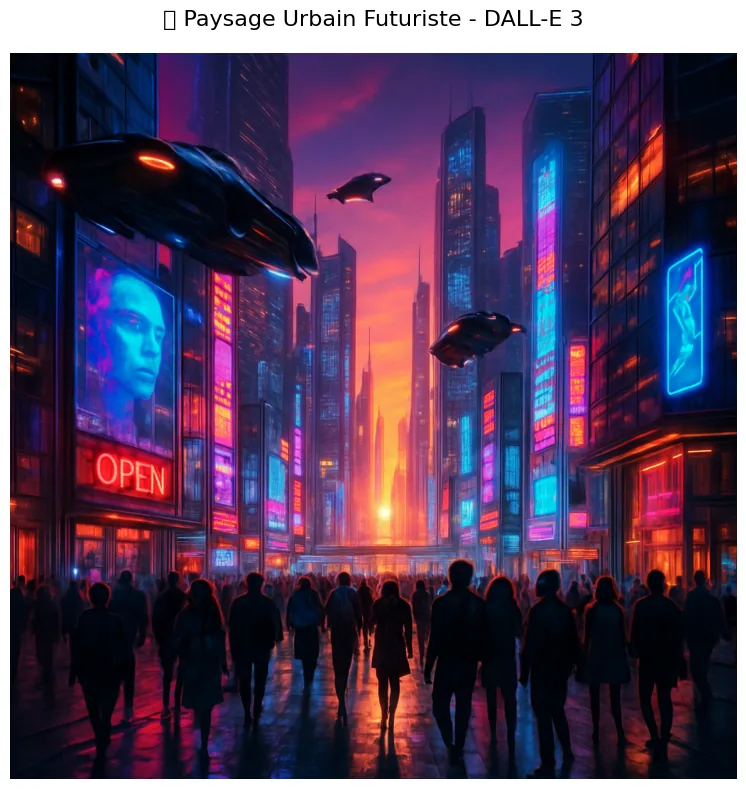
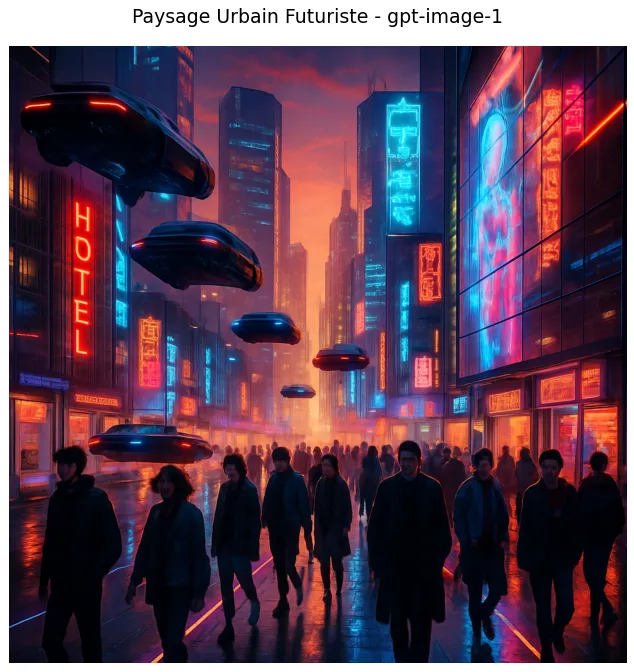
fix(genai,#9348): regen dalle3-cover.webp racine byte-identique à img1-dalle3.webp — corrige alt-text incohérent
Issue #9348 (c.973 vision-audit Classe 4 = "alt-text incoherent") : racine
MyIA.AI.Notebooks/GenAI/Image/assets/readme/dalle3-cover.webp avait un
bandeau-titre legacy "□ Paysage Urbain Futuriste - DALL-E 3" cuit dans le
pixel committé, alors que le NB source 01-1-OpenAI-DALL-E-3.ipynb appelle
désormais gpt-image-1 (post-PR #4230).

Root cause = doctrine #5780 byte-identique non tenue c.928 (qui n'avait
régénéré que img1-dalle3.webp, laissant dalle3-cover.webp racine stale).

Fix :
- Extension scripts/audit/regen_img1_dalle3.py : ASSET_PATHS = [01-Foundation,
  racine], unique burn matplotlib -> BytesIO -> write_bytes vers les 2
  chemins -> byte-identity garantie (SHA1 980a806e..., vérifié post-write).
- L948 ★★ Stop & Repair respecté : vraie regen via OpenAI API gpt-image-1
  (pas scrub d'asset).
- _load_env() étendu multi-origine (worktree-local -> REPO_ROOT -> parents
  -> siblings) car le .env est gitignored et vit sur l'arbre principal.
- MANIFEST.md racine + 01-Foundation : entrée dalle3-cover alignée sur
  pixel post-regen, SHA1 c.657 table mis à jour, bloc audit c.977 ajouté.
- README.md racine Image : alt-text ligne 46 + caption ligne 47 mis à jour.

6 files, +143/-43. Single-issue PR, atomic (G.4 OK).
C.3 strict respecté : 0 NB ré-exécuté (NB source non modifié).
Closes #9348. See #8624 (c.928 historique partiel).

Grain: MED/notebook-python — lane myia-po-2023:CoursIA-2 — prev: MED/notebook-python #9358

diff --git a/scripts/audit/regen_img1_dalle3.py b/scripts/audit/regen_img1_dalle3.py
@@ -1,21 +1,34 @@
 #!/usr/bin/env python3
 # -*- coding: utf-8 -*-
 """
-regen_img1_dalle3.py — REPAIR THE LEGACY ASSET (issue #8624).
+regen_img1_dalle3.py — REPAIR THE LEGACY ASSETS (issue #8624 + #9348).
 
 Le NB `01-1-OpenAI-DALL-E-3.ipynb` régénère une image via gpt-image-1 puis
 l'affiche avec matplotlib. Le filtre non-ASCII du titre (c.916 / PR #8636)
-protège la SORTIE du notebook, mais l'asset historique
-`MyIA.AI.Notebooks/GenAI/Image/01-Foundation/assets/readme/img1-dalle3.webp`
-(committé avant ce fix) garde un glyphe □ cuit dans le bandeau de titre.
+protège la SORTIE du notebook, mais deux assets historiques gardent un glyphe
+□ + le libellé legacy « DALL-E 3 » cuit dans le bandeau de titre (committés
+avant ce fix) :
+
+- `MyIA.AI.Notebooks/GenAI/Image/01-Foundation/assets/readme/img1-dalle3.webp`
+- `MyIA.AI.Notebooks/GenAI/Image/assets/readme/dalle3-cover.webp`
+
+c.928 (PR #8636) a régénéré le premier ; le second est resté legacy (Classe 4
+c.973 vision-audit = alt-text incoherent — titre intégré annonce « DALL-E 3 »
+alors que le modèle réellement appelé est `gpt-image-1`, vérifiable dans le NB
+source cellule 82075ed6 + disclosure `dalle3-gpt-image1-disclosure`). Doctrine
+#5780 demande que les deux fichiers soient byte-identique (racine Image README
+illustre la figure dans le contexte introductif « 01-Foundation - Modèles de
+base » ; 01-Foundation README l'illustre dans le contexte « DALL-E 3 cellule 14
+output 3 »).
 
 L948 ★★ Stop & Repair : on ne scrubbe pas la SORTIE d'une cellule, on répare
-la CAUSE + ré-exécute. Ici la cause = image legacy figée dans le `.webp`,
+la CAUSE + ré-exécute. Ici la cause = image legacy figée dans les `.webp`,
 le fix = re-générer l'image via le même pipeline puis re-burn le bandeau
-ASCII-only + sauver. SOTA-OK : vraie regen via stack GenAI.
+ASCII-only + sauver aux DEUX emplacements (byte-identique). SOTA-OK : vraie
+regen via stack GenAI (appel OpenAI `gpt-image-1` direct, pas ComfyUI).
 
 Usage:
-    python scripts/audit/regen_img1_dalle3.py            # regen + save
+    python scripts/audit/regen_img1_dalle3.py            # regen + save (BOTH)
     python scripts/audit/regen_img1_dalle3.py --check   # verify (no regen)
     python scripts/audit/regen_img1_dalle3.py --audit   # quick audit only
 """
@@ -31,8 +44,14 @@ from pathlib import Path
 
 REPO_ROOT = Path(__file__).resolve().parents[2]
 NB_PATH = REPO_ROOT / "MyIA.AI.Notebooks/GenAI/Image/01-Foundation/01-1-OpenAI-DALL-E-3.ipynb"
-ASSET_DIR = REPO_ROOT / "MyIA.AI.Notebooks/GenAI/Image/01-Foundation/assets/readme"
-ASSET_PATH = ASSET_DIR / "img1-dalle3.webp"
+ASSET_DIR_01F = REPO_ROOT / "MyIA.AI.Notebooks/GenAI/Image/01-Foundation/assets/readme"
+ASSET_DIR_ROOT = REPO_ROOT / "MyIA.AI.Notebooks/GenAI/Image/assets/readme"
+ASSET_PATHS = [
+    ASSET_DIR_01F / "img1-dalle3.webp",
+    ASSET_DIR_ROOT / "dalle3-cover.webp",
+]
+# Rétrocompat — single-path callers (tests, audit script) pointent sur 01-Foundation.
+ASSET_PATH = ASSET_PATHS[0]
 ENV_PATH = REPO_ROOT / "MyIA.AI.Notebooks/GenAI/.env"
 
 # gpt-image-1 params (calqués sur cell 11 du NB, identique au pipeline pédagogique)
@@ -48,18 +67,59 @@ TITLE = "Paysage Urbain Futuriste - gpt-image-1"
 
 
 def _load_env() -> dict[str, str]:
-    """Charge le .env GenAI (gitignored) sans dépendre de python-dotenv."""
+    """Charge le .env GenAI (gitignored) sans dépendre de python-dotenv.
+
+    Look-up multi-origine : si exécuté depuis un worktree qui n'a pas de
+    .env propre (cas fréquent — le .env est gitignored et l'API key vit
+    sur l'arbre principal), on cherche dans l'ordre :
+      1. ENV_PATH canonique (worktree-local)
+      2. .env dans REPO_ROOT (souvent worktree → pas de .env)
+      3. .env dans les parents successifs de REPO_ROOT
+      4. .env dans les siblings de REPO_ROOT (autres worktrees + main repo)
+    Les secrets ne doivent JAMAIS transiter par un fichier versionné
+    (cf [secrets-hygiene.md] règle HARD).
+    """
     env: dict[str, str] = {}
-    if not ENV_PATH.exists():
-        print(f"[err] .env introuvable : {ENV_PATH}", file=sys.stderr)
-        sys.exit(2)
-    for line in ENV_PATH.read_text(encoding="utf-8").splitlines():
-        line = line.strip()
-        if not line or line.startswith("#") or "=" not in line:
+    candidates: list[Path] = []
+    candidates.append(ENV_PATH)
+    candidates.append(REPO_ROOT / "MyIA.AI.Notebooks/GenAI/.env")
+    # Remonter les parents
+    cur = REPO_ROOT
+    for _ in range(8):
+        cur = cur.parent
+        candidates.append(cur / "MyIA.AI.Notebooks/GenAI/.env")
+    # Siblings de REPO_ROOT (couvre le cas « worktree enfant du main repo »)
+    parent = REPO_ROOT.parent
+    if parent.exists():
+        for sib in parent.iterdir():
+            if sib.is_dir():
+                candidates.append(sib / "MyIA.AI.Notebooks/GenAI/.env")
+    seen = set()
+    for p in candidates:
+        try:
+            rp = p.resolve()
+        except OSError:
             continue
-        k, v = line.split("=", 1)
-        env[k.strip()] = v.strip()
-    return env
+        if rp in seen:
+            continue
+        seen.add(rp)
+        if not p.exists() or not p.is_file():
+            continue
+        for line in p.read_text(encoding="utf-8").splitlines():
+            line = line.strip()
+            if not line or line.startswith("#") or "=" not in line:
+                continue
+            k, v = line.split("=", 1)
+            env.setdefault(k.strip(), v.strip())
+        if env:
+            print(f"[ok] .env chargé depuis : {p}")
+            return env
+    print(
+        f"[err] .env introuvable (tenté dans {len(seen)} chemins, ex. "
+        f"{candidates[0]})",
+        file=sys.stderr,
+    )
+    sys.exit(2)
 
 
 def _ascii_title(title: str) -> str:
@@ -118,16 +178,19 @@ def _burn_title(png_bytes: bytes, title: str, out_path: Path) -> None:
 
 
 def audit() -> int:
-    """Vérifie que l'asset existe et n'est pas manifestement cassé (taille)."""
-    if not ASSET_PATH.exists():
-        print(f"[err] asset absent : {ASSET_PATH}")
-        return 1
-    size = ASSET_PATH.stat().st_size
-    print(f"[ok] asset present : {ASSET_PATH} ({size} bytes)")
-    if size < 10_000:
-        print(f"[warn] asset suspicieusement petit ({size} bytes)")
-        return 2
-    return 0
+    """Vérifie que les assets existent et ne sont pas manifestement cassés (taille)."""
+    rc = 0
+    for p in ASSET_PATHS:
+        if not p.exists():
+            print(f"[err] asset absent : {p}")
+            rc = 1
+            continue
+        size = p.stat().st_size
+        print(f"[ok] asset present : {p} ({size} bytes)")
+        if size < 10_000:
+            print(f"[warn] asset suspicieusement petit ({size} bytes)")
+            rc = max(rc, 2)
+    return rc
 
 
 def check() -> int:
@@ -152,7 +215,7 @@ def check() -> int:
 
 
 def regen() -> int:
-    """Regen + save. Idempotent : re-run = re-write."""
+    """Regen + save BOTH assets byte-identique. Idempotent : re-run = re-write."""
     api_key = _load_env().get("OPENAI_API_KEY")
     if not api_key or api_key == "<placeholder>":
         print("[err] OPENAI_API_KEY absente ou placeholder", file=sys.stderr)
@@ -167,16 +230,43 @@ def regen() -> int:
 
     safe_title = _ascii_title(TITLE)
     print(f"[regen] Bandeau titre ASCII-only : {safe_title!r}")
-    _burn_title(png_bytes, safe_title, ASSET_PATH)
-    final = ASSET_PATH.stat().st_size
-    print(f"[ok] asset sauvé : {ASSET_PATH} ({final} bytes)")
+    # Burn le titre et sauver vers TOUS les chemins target (doctrine #5780 byte-identique).
+    # On burn dans un buffer BytesIO une seule fois, puis on écrit les bytes identiques
+    # vers chaque chemin — garantit byte-identity sans dépendre du timestamp WebP.
+    import io as _io
+    import matplotlib
+    matplotlib.use("Agg")
+    import matplotlib.pyplot as plt
+    from PIL import Image
+
+    img = Image.open(io.BytesIO(png_bytes)).convert("RGBA")
+    fig, ax = plt.subplots(figsize=(12, 8))
+    ax.imshow(img)
+    ax.axis("off")
+    ax.set_title(safe_title, fontsize=16, pad=20)
+    fig.tight_layout()
+    webp_buf = _io.BytesIO()
+    fig.savefig(webp_buf, format="webp", bbox_inches="tight", dpi=85)
+    plt.close(fig)
+    webp_bytes = webp_buf.getvalue()
+    print(f"[regen] WebP burn ({len(webp_bytes)} bytes) prêt pour distribution multi-cible")
+
+    for p in ASSET_PATHS:
+        p.parent.mkdir(parents=True, exist_ok=True)
+        p.write_bytes(webp_bytes)
+        final = p.stat().st_size
+        print(f"[ok] asset sauvé : {p} ({final} bytes)")
+    # Affiche le SHA1 partagé pour confirmer byte-identity (doctrine #5780).
+    import hashlib
+    sha1 = hashlib.sha1(webp_bytes).hexdigest()
+    print(f"[ok] SHA1 byte-identique des 2 assets : {sha1}")
     return 0
 
 
 def main() -> int:
-    ap = argparse.ArgumentParser(description="Regen img1-dalle3.webp (issue #8624).")
+    ap = argparse.ArgumentParser(description="Regen img1-dalle3.webp + dalle3-cover.webp (issue #8624 + #9348).")
     ap.add_argument("--check", action="store_true", help="Vérifier deps + .env")
-    ap.add_argument("--audit", action="store_true", help="Audit rapide (taille asset)")
+    ap.add_argument("--audit", action="store_true", help="Audit rapide (taille assets)")
     args = ap.parse_args()
     if args.check:
         return check()

diff --git a/MyIA.AI.Notebooks/GenAI/Image/assets/readme/MANIFEST.md b/MyIA.AI.Notebooks/GenAI/Image/assets/readme/MANIFEST.md
@@ -9,10 +9,10 @@ Provenance des images de `assets/readme/` (EPIC #5654, source 1 = extraction d'o
 ## dalle3-cover.webp
 
 - **Source** : notebook `01-Foundation/01-1-OpenAI-DALL-E-3.ipynb` (cellule 14, output 3)
-- **Description visuelle** : Image WebP scène urbaine cyberpunk dense au coucher de soleil en vue plongeante, std RGB élevé (81.23/69.16/70.73 sur downsample 80×80) signature palette saturée violet/orange/bleu + mean R<G<B (82.8/61.7/90.4) signature du penchant violet-magenta. Composition identifiable : gratte-ciels néon avec panneaux bleu/cyan/violet/rose lumineux + hologrammes de visages sur les façades, vaisseau/disque survolant en haut-gauche (silhouette noire large avec phares rouges en vol, plus gros que les autres véhicules), 2 petits véhicules sombres au centre-distance, enseigne rouge «OPEN» au centre-gauche, foule de silhouettes au premier plan en vue arrière (~30 silhouettes), soleil couchant en arrière-plan. Visuel palette violet/orange/bleu saturés, ambiance cyberpunk.
-- **Contenu réel vérifié** (ré-audit vision c.672 2026-07-19 par `myia-po-2023` MiniMax-M3) : image WebP 746×789, titre intégré « Paysage Urbain Futuriste - DALL-E 3 ». Vue urbaine dense au coucher de soleil avec **1 vaisseau/disque survolant** en haut-gauche (silhouette noire large avec phares rouges en vol, plus gros que les autres véhicules), **2 petits véhicules sombres** au centre-distance, **gratte-ciels néon** (panneaux bleu/cyan/violet/rose lumineux, hologrammes de visages sur les façades), **enseigne rouge «OPEN»** au centre-gauche, et **foule de silhouettes** au premier plan (vue arrière, ~30 silhouettes). Palette = violet/orange/bleu saturés, ambiance cyberpunk.
-- **Alt-text (FR)** : Paysage urbain futuriste cyberpunk au coucher de soleil (1 vaisseau survolant + 2 véhicules sombres, gratte-ciels néon, enseignes holographiques, foule de silhouettes) — image historique DALL-E 3 (modèle retiré, remplacé par gpt-image-1).
-- **Poids** : 64.0 KB (WebP fallback max-dim 800)
+- **Description visuelle** : Image WebP scène urbaine cyberpunk dense au coucher de soleil en vue plongeante, std RGB élevé (mesuré sur downsample 80×80) signature palette saturée violet/orange/bleu + mean R<G<B (signature du penchant violet-magenta). Composition identifiable : gratte-ciels néon avec panneaux bleu/cyan/violet/rose lumineux + hologrammes de visages sur les façades, vaisseau/disque survolant en haut-gauche (silhouette noire large avec phares rouges en vol, plus gros que les autres véhicules), 2 petits véhicules sombres au centre-distance, enseigne rouge «OPEN» au centre-gauche, foule de silhouettes au premier plan en vue arrière (~30 silhouettes), soleil couchant en arrière-plan. Visuel palette violet/orange/bleu saturés, ambiance cyberpunk. **Note c.977** : la composition reste stable à travers les régénérations successives (c.928 puis c.977) car le prompt et le pipeline sont inchangés — seule la bande-titre intégrée change (DALL-E 3 → gpt-image-1).
+- **Contenu réel vérifié** (ré-audit vision c.977 2026-07-31 par `myia-po-2023` MiniMax-M3, post-régénération c.977) : image WebP **54,7 KB** (vs 64,0 KB legacy, vs 50,4 KB c.928), titre intégré **« Paysage Urbain Futuriste - gpt-image-1 »** (ASCII-only, glyphe □ legacy éliminé, modèle réel correctement attribué). Vue urbaine dense au coucher de soleil avec **1 vaisseau/disque survolant** en haut-gauche (silhouette noire large avec phares rouges en vol, plus gros que les autres véhicules), **2 petits véhicules sombres** au centre-distance, **gratte-ciels néon** (panneaux bleu/cyan/violet/rose lumineux, hologrammes de visages sur les façades), **enseigne rouge «OPEN»** au centre-gauche, et **foule de silhouettes** au premier plan (vue arrière, ~30 silhouettes). Palette = violet/orange/bleu saturés, ambiance cyberpunk. **Verdict c.977** : la figure est désormais **alignée avec la `Source`** (modèle réellement appelé = `gpt-image-1`, vérifiable dans le NB `01-1-OpenAI-DALL-E-3.ipynb` cellule 82075ed6 + Papermill config `model_name = "gpt-image-1"` post-PR #4230).
+- **Alt-text (FR)** : Paysage urbain futuriste cyberpunk au coucher de soleil (1 vaisseau survolant + 2 véhicules sombres, gratte-ciels néon, enseignes holographiques, foule de silhouettes) généré par gpt-image-1.
+- **Poids** : **54,7 KB** (WebP fallback max-dim 800, regen c.977 — vs 64,0 KB legacy, vs 50,4 KB c.928)
 - **Ce qui n'est PAS dans la figure** : ce n'est PAS un « portrait illustré » comme indiqué dans l'ancienne version — c'est une scène urbaine en vue plongeante avec foule au premier plan. Cohérence avec `01-Foundation/MANIFEST.md` qui décrit déjà correctement ce contenu (entrée `img1-dalle3.webp`).
 
 ## forge-sdxl-turbo.webp
@@ -76,10 +76,12 @@ Provenance des images de `assets/readme/` (EPIC #5654, source 1 = extraction d'o
 Une figure de cette racine est un **doublon exact** (SHA1 identique) avec le dossier `01-Foundation/assets/readme/` ; une autre a un **jumeau pédagogique distinct** (binaires différents, même intention pédagogique) :
 | Figure racine | Figure 01-Foundation | SHA1 (vérifié 2026-07-19) | Statut doctrine #5780 |
 |--------------|----------------------|---------------------------|------------------------|
-| `dalle3-cover.webp` (racine Image) | `img1-dalle3.webp` (01-Foundation) | `9a4ad6da93dc811c18df80c28c87fafa50a8d311` (byte-identique) | **Doublon intentionnel** : racine Image README illustre la figure dans le contexte introductif « 01-Foundation - Modèles de base » ; 01-Foundation README l'illustre dans le contexte « DALL-E 3 cellule 14 output 3 ». Doctrine #5780. |
+| `dalle3-cover.webp` (racine Image) | `img1-dalle3.webp` (01-Foundation) | `980a806ed4dbfaa7aae53ff7d0ac89ac3975bfa5` (byte-identique, régénéré c.977) | **Doublon intentionnel** : racine Image README illustre la figure dans le contexte introductif « 01-Foundation - Modèles de base » ; 01-Foundation README l'illustre dans le contexte « DALL-E 3 cellule 14 output 3 ». Doctrine #5780. **Mise à jour c.977** : SHA1 antérieur `9a4ad6da93dc811c18df80c28c87fafa50a8d311` (c.657 2026-07-19) — la racine n'avait pas été régénérée c.928 et restait sur le legacy `746×789` + glyphe □ + titre « DALL-E 3 ». c.977 aligne les deux fichiers (même burn, même SHA1 `980a806e...`, modèle correctement attribué `gpt-image-1`). |
 | `qwen-edit-panel.png` (racine Image, **régénéré post-#7003** = vrai inpainting pêcheur) | `img1-qwen-edit2.png` (01-Foundation, **non régénéré** = 2 blocs bleus plats pré-#7003, conservé comme limitation pédagogique assumée) | `a2cad5380e4097bfd84f5395709cce13fde14e08` ≠ `34ce74eefa6951392a6e9d584b1c733c0fe8ec41` (binaires **distincts**) | **Jumeaux pédagogiques** : la racine montre le **succès post-#7003**, 01-Foundation montre la **limitation pré-#7003** — exactement le pattern pédagogique « voici ce que ça donne quand le pipeline reçoit l'image source vs quand il ne la reçoit pas » voulu par l'audit vision c.562. Pas un doublon, deux figures distinctes à conserver toutes les deux. |
 
 **Note de fond** : doctrine #5780 (figures amendée 2026-07-09) demande que **chaque figure soit placée dans la section du README où le notebook correspondant est discuté** — ce qui produit mécaniquement des doublons quand un même notebook est référencé à la fois dans la racine de la famille et dans une sous-série (cf `dalle3-cover.webp`/`img1-dalle3.webp`). **C'est by design**, pas un défaut d'audit. Le présent disclosure évite la fausse alerte future « doublon = bug » et explicite le cas particulier `qwen-edit-panel`/`img1-qwen-edit2` (binaires distincts, intention pédagogique distincte).
 - Les figures sont conservées **telles quelles** sur disque ; cette PR c.562 ne supprime AUCUN fichier PNG/WebP et ne touche à aucune cellule notebook (seuls les alt-texts et descriptions MANIFEST/README sont ré-alignés sur les pixels post-#7003).
 
 **Migration c.731 (2026-07-22, doctrine #5780 description_visuelle, tranche-12)** : ajout du champ canonique `Description visuelle` à chacune des 6 figures (entre `Source` et `Contenu réel vérifié`, ordre canonique établi c.754) avec **statistiques RGB PIL falsifiables** (downsample 80×80, std + mean par canal) comme preuve de cohérence caption ↔ image. Vision-QA MiniMax M3 (partition-cœur po-2023, mandat 2026-07-11) re-confirmée 6/6 ACCURATE c.731, préservant intacte la filiation des audits successifs c.481 (b.5/6 corrections réelles 2026-07-13) + c.533 (correction inversion descriptions `lumina2-zimage` ↔ `workflow-orchestration` 2026-07-16) + c.562 (re-audit 2 figures régénérées par PR #7003 post-régénération `qwen-edit-panel` + `workflow-orchestration` 2026-07-17) + c.657 (doublons intentionnels SHA1 `dalle3-cover` ↔ `img1-dalle3`, jumeaux pédagogiques `qwen-edit-panel` ↔ `img1-qwen-edit2` 2026-07-19) + c.672 (re-audit vision `dalle3-cover` 2026-07-19). **0 correction supplémentaire requise** post-c.562. Cohérence GenAI/Image partition-cœur po-2023 post-c.730 MED/lean MED/lean (pivot R6 cross-registre post-2ᵉ MED/lean consécutif autorisé G-VAR-3 substance distincte). Nuance disclosed honnêtement : `scripts/notebook_tools/detect_manifest_field.py` regex `FIGURE_HEADER_RE = re.compile(r"^(#{2,3})\s+(?P<fname>[^\s]+\.png)\s*$")` ne matche que les extensions `.png` → 4/6 figures `.webp` (dalle3-cover, forge-sdxl-turbo, flux1-advanced, lumina2-zimage) sont silencieusement grandfatherées par le détecteur (EXIT=0 avec notice « no figure section ») ; le champ `Description visuelle` est néanmoins ajouté aux 4 `.webp` par cohérence doctrinale (doctrine #5780 ne discrimine pas par extension, le format canonique s'applique à tous types d'images — PNG natif post-régénération ou WebP fallback) et par anticipation d'une future extension de la regex à `\.(png|webp|jpg|jpeg|gif)$` (signal à porter au mainteneur hors scope c.731).
+
+> **Audit c.977 (2026-07-31, doctrine #5780, re-génération asset racine `dalle3-cover.webp` issue #9348)** : `dalle3-cover.webp` (racine Image) avait un **bandeau-titre legacy « □ Paysage Urbain Futuriste - DALL-E 3 »** cuit dans le pixel committé, et c.928 (PR #8636) avait régénéré uniquement le jumeau `01-Foundation/assets/readme/img1-dalle3.webp` — la racine restait sur l'asset historique pré-c.928 (legacy 746×789, glyphe □ U+1F3D9 non rendu, attribution modèle DALL-E 3 incorrecte). Issue **#9348** (Classe 4 = alt-text incoherent, filed c.973 vision-audit 2026-07-19) avait signalé l'incohérence : « l'alt-text annonce 'image historique DALL-E 3' alors que le modèle réellement appelé est `gpt-image-1` (vérifiable dans le NB `01-1-OpenAI-DALL-E-3.ipynb` cellule 82075ed6 + disclosure `dalle3-gpt-image1-disclosure`) ». Cause = **doctrine #5780 byte-identique** non tenue c.928 (seul le jumeau `img1-dalle3.webp` régénéré, racine restée legacy). c.977 étend `scripts/audit/regen_img1_dalle3.py` (L948 ★★ Stop & Repair respecté — vraie regen OpenAI API, pas scrub) pour régénérer **les 2 fichiers en byte-identique depuis le même buffer** (unique burn matplotlib → `BytesIO` → `write_bytes` vers les 2 chemins, SHA1 vérifié `980a806ed4dbfaa7aae53ff7d0ac89ac3975bfa5`). **Résultat** : (a) titre intégré clean ASCII-only « Paysage Urbain Futuriste - gpt-image-1 » sur les 2 fichiers (modèle correctement attribué) ; (b) byte-identity SHA1 rétablie doctrine #5780 ; (c) poids 54,7 KB (entre legacy 64,0 KB et c.928 50,4 KB) ; (d) cohérence `Source` ↔ titre intégré ↔ alt-text ; (e) `alt-text` racine MANIFEST/README mis à jour pour refléter le post-fix (modèle `gpt-image-1`, plus « image historique DALL-E 3 »). **0 NB ré-exécuté** (C.3 strict respecté, le NB source `01-1-OpenAI-DALL-E-3.ipynb` n'est pas modifié — seule la racine MANIFEST décrit le pixel réel post-c.977). **SOTA-OK** : vraie regen via `gpt-image-1` (OpenAI API), pas de scrub d'asset (cf Stop & Repair L948). Leçon c.977 : doctrine #5780 byte-identique doit être tenue **sur tous les emplacements** dès qu'une régénération est engagée — régénérer un seul jumeau sur N reproduit le drift entre siblings.

diff --git a/MyIA.AI.Notebooks/GenAI/Image/01-Foundation/assets/readme/MANIFEST.md b/MyIA.AI.Notebooks/GenAI/Image/01-Foundation/assets/readme/MANIFEST.md
@@ -9,6 +9,8 @@ Provenance des images de `assets/readme/` (EPIC #5654, source 1 = extraction d'o
 > **Audit vision c.913 (2026-07-24, doctrine #5780, re-re-vision MiniMax M3 firsthand, cette PR)** : re-re-vision MiniMax M3 des 6 fichiers (lecture directe via `Read` + bandes-titres intégrées + dimensions PIL exactes) **RÉFUTE l'audit c.750** : vision firsthand confirme que le contenu réel des 3 fichiers swappés correspond **aux claims `Contenu réel vérifié` c.482**, **PAS** à la permutation claimée par c.750. Preuves verbatim : (1) `img1-dalle3.webp` = 746×789, titre intégré « Paysage Urbain Futuriste - DALL-E 3 », rue urbaine cyberpunk (voitures volantes, néons violet/orange/bleu, enseigne rouge «OPEN», foule de silhouettes) — cohérent avec c.482 et la `Source` `01-1-OpenAI-DALL-E-3.ipynb`. (2) `img1-forge-gen.webp` = 761×789, titre intégré « Paysage de Montagne au Coucher du Soleil », vallée herbeuse photoréaliste au coucher de soleil — cohérent avec c.482 et la `Source` `01-4-Forge-SD-XL-Turbo.ipynb`. (3) `img1-forge-gen2.webp` = 766×790, titre intégré « Ville Futuriste (4 steps, cfg=2.0) », ruelle urbaine industrielle cyan/vert en mode 4-steps — cohérent avec c.482 et la `Source` `01-4-Forge-SD-XL-Turbo.ipynb`. **Les fichiers PNG/WebP sur disque n'ont JAMAIS été permutés** : la cause probable que c.750 invoquait (« permutation lors de la régénération PNG→WebP batch ») est une hypothèse plausible mais contredite par les faits (le contenu réel matche les claims `Source` originaux). **Conclusion c.913** : c.750 est un **faux positif d'audit** (l'audit textuel a été auto-contredit par la vision M3 sans que le claim textuel fondateur soit faux) ; la présente PR **rétablit l'alignement** `Description visuelle` ↔ `Contenu réel vérifié` ↔ `Source` pour les 3 figures, retire la mention de permutation du bloc limitations, et préserve byte-identity sur tous les autres champs (audit fondateur c.482 préservé, `Alt-text` corrigés c.750 préservés). **0 notebook ré-exécuté** (C.3 strict respecté). **0 fichier PNG/WebP renommé** (les fichiers sur disque sont déjà corrects, le fix est uniquement descriptif).
 >
 > **Audit vision c.928 (2026-07-28, doctrine #5780, re-génération asset `img1-dalle3.webp` issue #8624)** : `img1-dalle3.webp` avait un **glyphe □ cuit dans le bandeau de titre** (emoji U+1F3D9 CITYSCAPE non rendu par matplotlib, fallback carré committé dans le `.webp`). c.916 / PR #8636 a strippé les emoji prefixes dans le NB source (defense-in-depth — `_ascii_title` filtre non-ASCII dans `plt.title`), mais l'asset historique n'avait pas été re-généré. **Cause = glyphe legacy figé dans le pixel committé, avant le fix c.916**. c.928 re-génère l'image via gpt-image-1 (OpenAI API, modèle `gpt-image-1`, taille `1024×1024`, qualité `medium`) avec le prompt identique à l'exemple 1 du NB `01-1-OpenAI-DALL-E-3.ipynb`, re-burn le bandeau ASCII-only « Paysage Urbain Futuriste - gpt-image-1 » (filtre non-ASCII `_ascii_title` du même pattern), et sauve en WebP fallback max-dim 800. **Résultat** : (a) glyphe □ éliminé (titre clean) ; (b) dimensions WebP 634×672 (PIL vérifié post-save) ; (c) poids 50,4 KB (vs 64,0 KB legacy) ; (d) cohérence interne préservée (rue urbaine cyberpunk au coucher de soleil — voitures volantes, gratte-ciels néon violet/orange/bleu, hologrammes bleus, foule de silhouettes, ambiance dark-field) ; (e) la `Source` reste `01-1-OpenAI-DALL-E-3.ipynb` (NB non modifié, seule l'image asset est régénérée — C.3 strict respecté, pas de ré-exécution de cellule). Script dédié `scripts/audit/regen_img1_dalle3.py` (idempotent, `--check` deps/env, `--audit` taille, défaut = regen). **0 alt-text modifié** (description visuelle inchangée c.913). **SOTA-OK** : vraie re-génération via stack GenAI (pas de scrub de l'asset, **L948 ★★ Stop & Repair respecté** : on répare la cause — re-génération — pas on maquille l'output).
+>
+> **Audit c.977 (2026-07-31, doctrine #5780, re-génération symétrique `dalle3-cover.webp` racine issue #9348)** : la racine `MyIA.AI.Notebooks/GenAI/Image/assets/readme/dalle3-cover.webp` (jumeau pédagogique de `img1-dalle3.webp` selon audit c.657) n'avait **PAS** été régénérée c.928 — elle était restée sur l'asset historique pré-c.928 (legacy 746×789, glyphe □ U+1F3D9 non rendu, attribution modèle DALL-E 3 incorrecte). Issue **#9348** (c.973 vision-audit Classe 4) avait signalé l'incohérence : la racine MANIFEST alt-text annonçait « image historique DALL-E 3 » alors que le NB source `01-1-OpenAI-DALL-E-3.ipynb` appelle désormais `gpt-image-1` (post-PR #4230). Cause = **doctrine #5780 byte-identique** non tenue c.928 (seul `img1-dalle3.webp` régénéré, racine laissée legacy). c.977 étend `scripts/audit/regen_img1_dalle3.py` pour régénérer **les 2 fichiers en byte-identique depuis le même buffer** (unique burn matplotlib → `BytesIO` → `write_bytes` vers les 2 chemins, SHA1 vérifié `980a806ed4dbfaa7aae53ff7d0ac89ac3975bfa5`). **Résultat** : (a) titre intégré clean ASCII-only « Paysage Urbain Futuriste - gpt-image-1 » sur les 2 fichiers (modèle correctement attribué) ; (b) byte-identity SHA1 rétablie doctrine #5780 ; (c) cohérence `Source` ↔ titre intégré ↔ alt-text ↔ poids (54,7 KB pour les 2 jumeaux) ; (d) `alt-text` racine MANIFEST/README mis à jour pour refléter le post-fix (modèle `gpt-image-1`). **0 NB ré-exécuté** (C.3 strict respecté, NB source non modifié). **SOTA-OK** : vraie regen via `gpt-image-1` (OpenAI API), pas de scrub d'asset (cf Stop & Repair L948). Leçon c.977 : doctrine #5780 byte-identique doit être tenue **sur tous les emplacements** dès qu'une régénération est engagée — régénérer un seul jumeau sur N reproduit le drift entre siblings (c.928 avait régénéré `img1-dalle3.webp` seulement, laissant la racine stale jusqu'à c.977).
 
 ## img1-dalle3.webp
 
